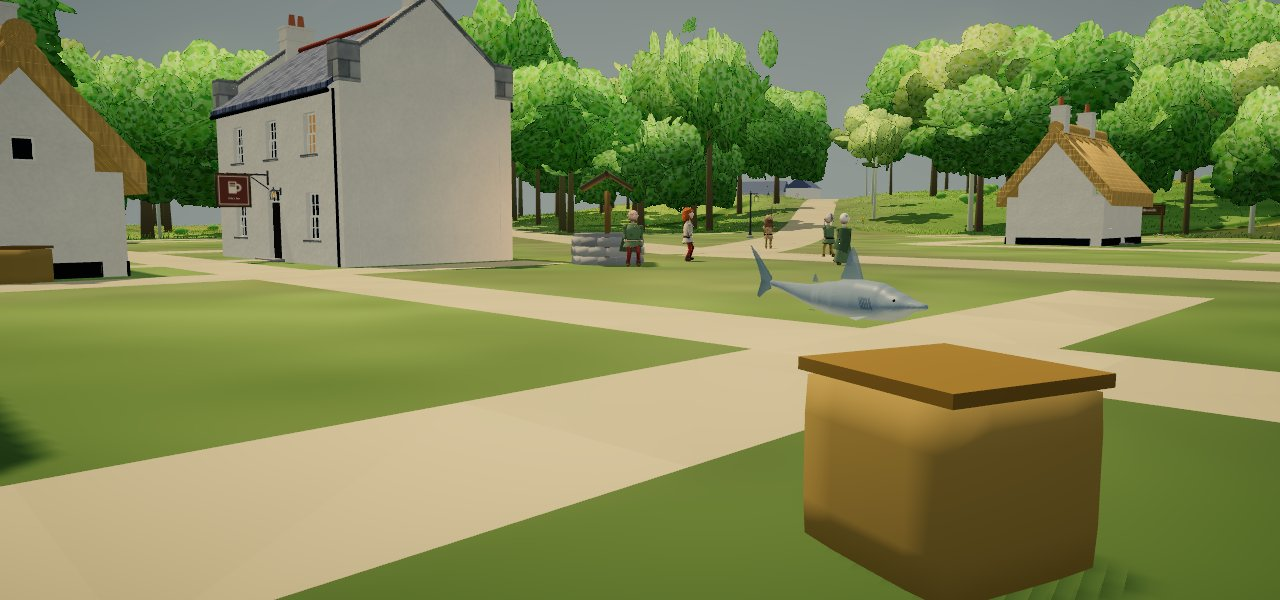
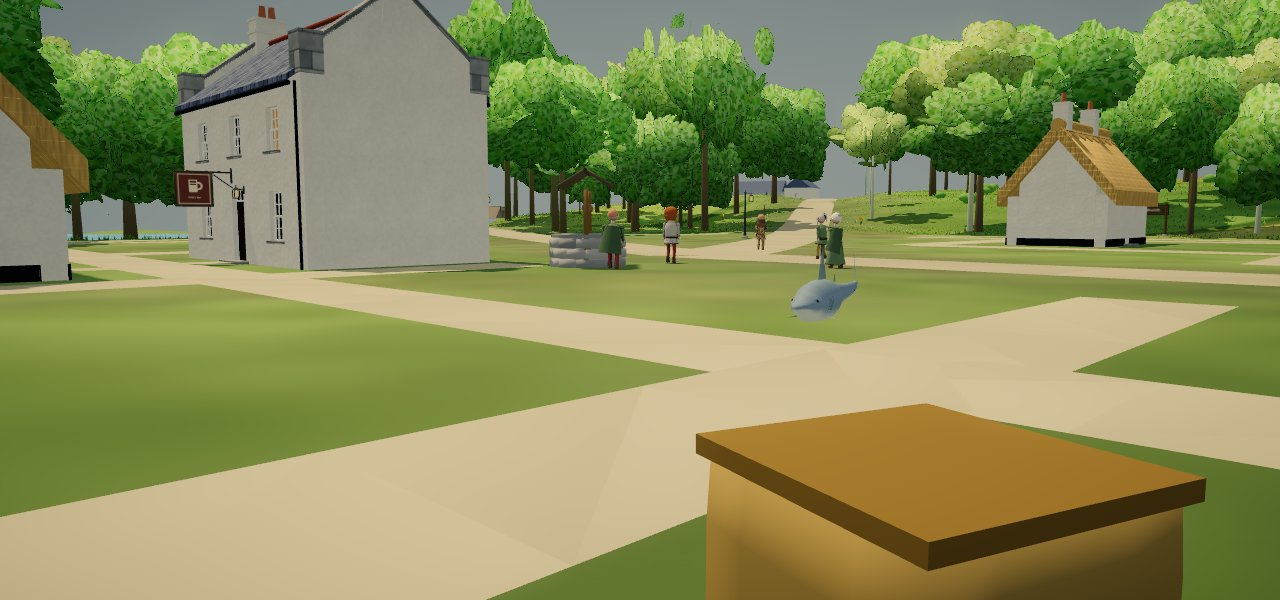
Session 1527: the shark's gill slits drawn as lines on the grown skin, not painted bands that aliased into a chequer
Claude-Session: https://claude.ai/code/session_019eFMMnz2PK79tcmWazPiGt

diff --git a/vendor/creatures.builder.js b/vendor/creatures.builder.js
@@ -2137,6 +2137,30 @@ P.frame = (B, o) => { const M = stdMat(B.tone(o.tone || 'stone'), { rough: .95, 
   let n = 0; for (const [bone, list] of Object.entries(gs)) { const m = new THREE.Mesh(mergeGeometries(list), M); m.name = 'frame'; B.bit(bone, m); n += list.length; }
   B.frame = { pieces: n, spurs: (o.spurs || []).length * 2 }; };
 // a step at a time (Session 1484): a yield every 800 vertices
+// gill slits as lines (Session 1527): painted into the hide, five slits a centimetre or two apart aliased into a chequer on a grid of
+// about the same pitch, so each slit is a thin ribbon laid on the grown skin instead. The skin is found by rays cast in from the side
+// at `Q.rows` heights along the slit's line (the same line the painted bands followed: `from`, `step`, leaning back by `tilt`), the
+// ribbon `Q.slit` wide along the body and lifted a hair off the skin; all of them one mesh in the `tone`, on the bone the gills lie over
+function gillSlits(geo, B, Q, pal) {
+  const H = B.headFrame, p = geo.attributes.position, idx = geo.index, nT = (idx ? idx.count : p.count) / 3, vi = i => idx ? idx.getX(i) : i;
+  const zs = []; for (let k = 0; k < Q.n; k++) zs.push(H.base.z + H.dir.z * (Q.from - k * Q.step * (1 - .06 * k)) * H.len);
+  const z0 = Math.min(...zs) - H.r, z1 = Math.max(...zs) + H.r, tris = [[], []], a = V(), b = V(), c = V();
+  for (let t = 0; t < nT; t++) { a.fromBufferAttribute(p, vi(t * 3)); b.fromBufferAttribute(p, vi(t * 3 + 1)); c.fromBufferAttribute(p, vi(t * 3 + 2));
+    if (Math.max(a.z, b.z, c.z) < z0 || Math.min(a.z, b.z, c.z) > z1) continue; const x = a.x + b.x + c.x; if (x > 0) tris[0].push([a.clone(), b.clone(), c.clone()]); else if (x < 0) tris[1].push([a.clone(), b.clone(), c.clone()]); }
+  const ray = new THREE.Ray(), hit = V(), pos = [], ix = [], rows = Q.rows || 6, lift = Q.lift ?? .0015;
+  for (const sd of [1, -1]) for (let k = 0; k < Q.n; k++) { const line = [];
+    for (let j = 0; j < rows; j++) { const up = lerp(Q.up[0] * .85, Q.up[1] * .85, j / (rows - 1)), al = Q.from - k * Q.step * (1 - .06 * k) - up * (Q.tilt || 0);
+      const at = H.base.clone().addScaledVector(H.dir, al * H.len).addScaledVector(H.up, up * H.r); ray.set(V(sd * H.r * 4, at.y, at.z), V(-sd, 0, 0));
+      let best = null, bd = 1e9; for (const [ta, tb, tc] of tris[sd > 0 ? 0 : 1]) if (ray.intersectTriangle(ta, tb, tc, false, hit)) { const d = hit.distanceTo(ray.origin); if (d < bd) { bd = d; best = { p: hit.clone(), n: V().subVectors(tb, ta).cross(V().subVectors(tc, ta)).normalize() }; } }
+      if (best) { if (best.n.x * sd < 0) best.n.negate(); line.push(best); } }
+    if (line.length < 2) continue;
+    const v0 = pos.length / 3, half = Q.slit / 2;
+    line.forEach(({ p: q, n }, j) => { const fade = j === 0 || j === line.length - 1 ? .35 : 1, o = q.clone().addScaledVector(n, lift);
+      pos.push(o.x, o.y, o.z - half * fade, o.x, o.y, o.z + half * fade); if (j) { const i = v0 + j * 2; ix.push(i - 2, i - 1, i, i - 1, i + 1, i); } }); }
+  if (!pos.length) return;
+  const g = new THREE.BufferGeometry(); g.setAttribute('position', new THREE.Float32BufferAttribute(pos, 3)); g.setIndex(ix); g.computeVertexNormals();
+  const m = new THREE.Mesh(g, stdMat(pal[Q.tone] || pal.dark, { rough: .8 }).clone()); m.material.side = THREE.DoubleSide; /* a copy: stdMat's are shared */ m.name = 'gills'; m.userData.noShadow = true;
+  B.bit(B.spineNames[B.spineNames.length - 1], m); }
 function* dressFlesh(geo, B, pal, plan) {
   const pos = geo.attributes.position, nrm = geo.attributes.normal, n = pos.count;
   const si = new Uint16Array(n * 4), sw = new Float32Array(n * 4), col = new Float32Array(n * 3), fur = new Float32Array(n), glow = new Float32Array(n), alpha = plan.faceClear ? new Float32Array(n).fill(1) : null;
@@ -2165,7 +2189,7 @@ function* dressFlesh(geo, B, pal, plan) {
       if (along > (F.back ?? -.3) && upw > -.35) C.copy(pal[side > F.from && side < F.to ? F.stripe : F.ground]).multiplyScalar(.95 + .1 * PN.noise(x * 40, y * 40, z * 40)); }
     // gill slits (Session 1525, the shark's): `n` dark bands across the flank behind the head, `step` apart along the head's line
     // from `from` (in the head's lengths; behind its root is negative), each `w` wide, between two distances out and two heights, leaning back by `tilt` as it rises
-    if (plan.gills && B.headFrame) { const Q = plan.gills, H = B.headFrame, rel = V(x, y, z).sub(H.base), al = rel.dot(H.dir) / H.len, sd = Math.abs(rel.x) / H.r, up = rel.dot(H.up) / H.r;
+    if (plan.gills && !plan.gills.slit && B.headFrame) { const Q = plan.gills, H = B.headFrame, rel = V(x, y, z).sub(H.base), al = rel.dot(H.dir) / H.len, sd = Math.abs(rel.x) / H.r, up = rel.dot(H.up) / H.r;
       if (sd > Q.side[0] && sd < Q.side[1] && up > Q.up[0] && up < Q.up[1]) for (let k = 0; k < Q.n; k++) { const c = Q.from - k * Q.step * (1 - .06 * k), d = Math.abs(al - c + up * (Q.tilt || 0)) * H.len; if (d < Q.w) { C.lerp(pal[Q.tone], sstep(Q.w, Q.w * .35, d) * sstep(Q.side[0], Q.side[0] + .2, sd) * sstep(Q.up[1], Q.up[1] - .25, up) * sstep(Q.up[0], Q.up[0] + .25, up) * (Q.k ?? .9)); break; } } }
     const mott = 1 + (PN.noise(x * 4.1, y * 4.1, z * 4.1) * .16 + PN.noise(x * 17, y * 17, z * 17) * .06) * (plan.mottle ?? 1); C.multiplyScalar(mott);
     col[v * 3] = C.r; col[v * 3 + 1] = C.g; col[v * 3 + 2] = C.b; fur[v] = furry;
@@ -2253,6 +2277,7 @@ function* buildSteps(g) {
   pause(); yield; go();
   { const it = dressFlesh(geo, B, pal, plan); while (!it.next().done) { pause(); yield; go(); } }
   for (const f of B.after || []) f(geo); // what is laid on the grown skin (a harness, Session 944)
+  if (plan.gills?.slit && B.headFrame) gillSlits(geo, B, plan.gills, pal);
   // the skeleton
   const root = new THREE.Group(), bones = B.bones.map(b => { const o = new THREE.Bone(); o.name = b.name; o.position.copy(b.parent ? b.p.clone().sub(b.parent.p) : b.p); return o; });
   B.bones.forEach((b, i) => { if (b.parent) bones[b.parent.i].add(bones[i]); }); const rig = new THREE.Group(); rig.add(bones[0]); root.add(rig); rig.updateMatrixWorld(true);
@@ -3215,7 +3240,7 @@ Object.assign(PLANS, {
   reefshark: { name: 'Reef Shark', src: 'OG-016 (open ocean: a reef shark); the game’s shark, Michael’s A on Session 230', gaits: ['swim', 'stand'], scale: 2.6, bl: .9, waveAmp: .16,
     water: 1.2, rough: .4, mottle: .25, wag: 0, pant: 0,
     palette: { coat: [.4, .45, .49], saddle: [.3, .35, .39], belly: [.88, .88, .86], dark: [.03, .03, .035], fin: [.33, .38, .42], gill: [.17, .2, .23] },
-    gills: { n: 5, from: -.04, step: .085, w: .008, side: [.5, 1.15], up: [-.45, .5], tilt: .12, k: .6, tone: 'gill' },
+    gills: { n: 5, from: -.04, step: .085, w: .008, side: [.5, 1.15], up: [-.45, .5], tilt: .12, k: .6, tone: 'gill', slit: .0035 },
     parts: [
       ['spine', { hip: [.8, -.13], chest: [.8, .17], n: 4, r: [.07, .1, .09], s: [.86, 1], rump: .03, front: .04 }],
       ['head', { len: .21, r: .076, pitch: 0, s: [.88, .78, 1], muzzle: { len: .95, r: .068, s: [.95, .62, 1], taper: .42, drop: -.02 }, jaw: { len: .55, r: .03, drop: .35 },

diff --git a/docs/prototypes/levelup/creatures.js b/docs/prototypes/levelup/creatures.js
@@ -707,6 +707,30 @@ P.frame = (B, o) => { const M = stdMat(B.tone(o.tone || 'stone'), { rough: .95, 
   let n = 0; for (const [bone, list] of Object.entries(gs)) { const m = new THREE.Mesh(mergeGeometries(list), M); m.name = 'frame'; B.bit(bone, m); n += list.length; }
   B.frame = { pieces: n, spurs: (o.spurs || []).length * 2 }; };
 // a step at a time (Session 1484): a yield every 800 vertices
+// gill slits as lines (Session 1527): painted into the hide, five slits a centimetre or two apart aliased into a chequer on a grid of
+// about the same pitch, so each slit is a thin ribbon laid on the grown skin instead. The skin is found by rays cast in from the side
+// at `Q.rows` heights along the slit's line (the same line the painted bands followed: `from`, `step`, leaning back by `tilt`), the
+// ribbon `Q.slit` wide along the body and lifted a hair off the skin; all of them one mesh in the `tone`, on the bone the gills lie over
+function gillSlits(geo, B, Q, pal) {
+  const H = B.headFrame, p = geo.attributes.position, idx = geo.index, nT = (idx ? idx.count : p.count) / 3, vi = i => idx ? idx.getX(i) : i;
+  const zs = []; for (let k = 0; k < Q.n; k++) zs.push(H.base.z + H.dir.z * (Q.from - k * Q.step * (1 - .06 * k)) * H.len);
+  const z0 = Math.min(...zs) - H.r, z1 = Math.max(...zs) + H.r, tris = [[], []], a = V(), b = V(), c = V();
+  for (let t = 0; t < nT; t++) { a.fromBufferAttribute(p, vi(t * 3)); b.fromBufferAttribute(p, vi(t * 3 + 1)); c.fromBufferAttribute(p, vi(t * 3 + 2));
+    if (Math.max(a.z, b.z, c.z) < z0 || Math.min(a.z, b.z, c.z) > z1) continue; const x = a.x + b.x + c.x; if (x > 0) tris[0].push([a.clone(), b.clone(), c.clone()]); else if (x < 0) tris[1].push([a.clone(), b.clone(), c.clone()]); }
+  const ray = new THREE.Ray(), hit = V(), pos = [], ix = [], rows = Q.rows || 6, lift = Q.lift ?? .0015;
+  for (const sd of [1, -1]) for (let k = 0; k < Q.n; k++) { const line = [];
+    for (let j = 0; j < rows; j++) { const up = lerp(Q.up[0] * .85, Q.up[1] * .85, j / (rows - 1)), al = Q.from - k * Q.step * (1 - .06 * k) - up * (Q.tilt || 0);
+      const at = H.base.clone().addScaledVector(H.dir, al * H.len).addScaledVector(H.up, up * H.r); ray.set(V(sd * H.r * 4, at.y, at.z), V(-sd, 0, 0));
+      let best = null, bd = 1e9; for (const [ta, tb, tc] of tris[sd > 0 ? 0 : 1]) if (ray.intersectTriangle(ta, tb, tc, false, hit)) { const d = hit.distanceTo(ray.origin); if (d < bd) { bd = d; best = { p: hit.clone(), n: V().subVectors(tb, ta).cross(V().subVectors(tc, ta)).normalize() }; } }
+      if (best) { if (best.n.x * sd < 0) best.n.negate(); line.push(best); } }
+    if (line.length < 2) continue;
+    const v0 = pos.length / 3, half = Q.slit / 2;
+    line.forEach(({ p: q, n }, j) => { const fade = j === 0 || j === line.length - 1 ? .35 : 1, o = q.clone().addScaledVector(n, lift);
+      pos.push(o.x, o.y, o.z - half * fade, o.x, o.y, o.z + half * fade); if (j) { const i = v0 + j * 2; ix.push(i - 2, i - 1, i, i - 1, i + 1, i); } }); }
+  if (!pos.length) return;
+  const g = new THREE.BufferGeometry(); g.setAttribute('position', new THREE.Float32BufferAttribute(pos, 3)); g.setIndex(ix); g.computeVertexNormals();
+  const m = new THREE.Mesh(g, stdMat(pal[Q.tone] || pal.dark, { rough: .8 }).clone()); m.material.side = THREE.DoubleSide; /* a copy: stdMat's are shared */ m.name = 'gills'; m.userData.noShadow = true;
+  B.bit(B.spineNames[B.spineNames.length - 1], m); }
 function* dressFlesh(geo, B, pal, plan) {
   const pos = geo.attributes.position, nrm = geo.attributes.normal, n = pos.count;
   const si = new Uint16Array(n * 4), sw = new Float32Array(n * 4), col = new Float32Array(n * 3), fur = new Float32Array(n), glow = new Float32Array(n), alpha = plan.faceClear ? new Float32Array(n).fill(1) : null;
@@ -735,7 +759,7 @@ function* dressFlesh(geo, B, pal, plan) {
       if (along > (F.back ?? -.3) && upw > -.35) C.copy(pal[side > F.from && side < F.to ? F.stripe : F.ground]).multiplyScalar(.95 + .1 * PN.noise(x * 40, y * 40, z * 40)); }
     // gill slits (Session 1525, the shark's): `n` dark bands across the flank behind the head, `step` apart along the head's line
     // from `from` (in the head's lengths; behind its root is negative), each `w` wide, between two distances out and two heights, leaning back by `tilt` as it rises
-    if (plan.gills && B.headFrame) { const Q = plan.gills, H = B.headFrame, rel = V(x, y, z).sub(H.base), al = rel.dot(H.dir) / H.len, sd = Math.abs(rel.x) / H.r, up = rel.dot(H.up) / H.r;
+    if (plan.gills && !plan.gills.slit && B.headFrame) { const Q = plan.gills, H = B.headFrame, rel = V(x, y, z).sub(H.base), al = rel.dot(H.dir) / H.len, sd = Math.abs(rel.x) / H.r, up = rel.dot(H.up) / H.r;
       if (sd > Q.side[0] && sd < Q.side[1] && up > Q.up[0] && up < Q.up[1]) for (let k = 0; k < Q.n; k++) { const c = Q.from - k * Q.step * (1 - .06 * k), d = Math.abs(al - c + up * (Q.tilt || 0)) * H.len; if (d < Q.w) { C.lerp(pal[Q.tone], sstep(Q.w, Q.w * .35, d) * sstep(Q.side[0], Q.side[0] + .2, sd) * sstep(Q.up[1], Q.up[1] - .25, up) * sstep(Q.up[0], Q.up[0] + .25, up) * (Q.k ?? .9)); break; } } }
     const mott = 1 + (PN.noise(x * 4.1, y * 4.1, z * 4.1) * .16 + PN.noise(x * 17, y * 17, z * 17) * .06) * (plan.mottle ?? 1); C.multiplyScalar(mott);
     col[v * 3] = C.r; col[v * 3 + 1] = C.g; col[v * 3 + 2] = C.b; fur[v] = furry;
@@ -823,6 +847,7 @@ function* buildSteps(g) {
   pause(); yield; go();
   { const it = dressFlesh(geo, B, pal, plan); while (!it.next().done) { pause(); yield; go(); } }
   for (const f of B.after || []) f(geo); // what is laid on the grown skin (a harness, Session 944)
+  if (plan.gills?.slit && B.headFrame) gillSlits(geo, B, plan.gills, pal);
   // the skeleton
   const root = new THREE.Group(), bones = B.bones.map(b => { const o = new THREE.Bone(); o.name = b.name; o.position.copy(b.parent ? b.p.clone().sub(b.parent.p) : b.p); return o; });
   B.bones.forEach((b, i) => { if (b.parent) bones[b.parent.i].add(bones[i]); }); const rig = new THREE.Group(); rig.add(bones[0]); root.add(rig); rig.updateMatrixWorld(true);
@@ -1785,7 +1810,7 @@ Object.assign(PLANS, {
   reefshark: { name: 'Reef Shark', src: 'OG-016 (open ocean: a reef shark); the game’s shark, Michael’s A on Session 230', gaits: ['swim', 'stand'], scale: 2.6, bl: .9, waveAmp: .16,
     water: 1.2, rough: .4, mottle: .25, wag: 0, pant: 0,
     palette: { coat: [.4, .45, .49], saddle: [.3, .35, .39], belly: [.88, .88, .86], dark: [.03, .03, .035], fin: [.33, .38, .42], gill: [.17, .2, .23] },
-    gills: { n: 5, from: -.04, step: .085, w: .008, side: [.5, 1.15], up: [-.45, .5], tilt: .12, k: .6, tone: 'gill' },
+    gills: { n: 5, from: -.04, step: .085, w: .008, side: [.5, 1.15], up: [-.45, .5], tilt: .12, k: .6, tone: 'gill', slit: .0035 },
     parts: [
       ['spine', { hip: [.8, -.13], chest: [.8, .17], n: 4, r: [.07, .1, .09], s: [.86, 1], rump: .03, front: .04 }],
       ['head', { len: .21, r: .076, pitch: 0, s: [.88, .78, 1], muzzle: { len: .95, r: .068, s: [.95, .62, 1], taper: .42, drop: -.02 }, jaw: { len: .55, r: .03, drop: .35 },

diff --git a/docs/backlog.md b/docs/backlog.md
@@ -537,7 +537,7 @@ Michael marked all 96 images of the intake on the review page: 63 KEEP and 33 NO
 - **The Mark's fifteen** (OG-031): Icehorn (horns that moan in the wind), Ironpine Elk, Stormlynx, Skyraven, Craghorn Ram, Glacial Marmot, Stormshrike, Snowleap Hare (coat by season), Riverjaw Salmon (leaps the falls), Tundra Grouse, Icecrab; Stonefang Wolf and Frostreach Bear as reskins of the Snow Wolf and Cave Bear. **All fifteen are plans in the kit, Session 847** (bodies builder; `creatures.js` `MARK`, `creatures-mark.jpg`); owed: the game, after F4.
 - **Aurenne's fifteen** (OG-030): Duneskimmer, Terrace Ram, Oasis Hare, Scarlet Ibis, Mirage Fox, Cliffswift, Amber Shellcrab (harvestable), Cypress Stalker, Glasswing Moth (an ingredient), Sunbeak Vulture, Spined Gekko; the Saltspine Monitor hostile; the Dunescorpion as the Sand Scorpion's skin; the Sand Wyrm as a set piece known by its funnels. **Fourteen are plans in the kit, Session 848** (bodies builder; `creatures.js` `AURENNE`, `creatures-aurenne.jpg`); owed: the game, after F4; ~~the Glasswing Moth~~ — done, Session 864 (a moth's glass wings in the kit), so all fifteen are plans.
 - **The strange beasts** (OG-040): the Crownstag, the Mossback (a tortoise carrying a garden), the Bellthroat (its call at dusk), the Lanternfox, the Thornrunner; the Shatterhorn, the Frostmane (a pack beast), the Glasswing, the Stonejaw, the Stormplume; the Redcrest, the Sunfan, the Mineprowler, the Sailshell. Wonder without menace, mostly peaceful. A few have six legs, and that is ordinary (Michael's 9 A). **All fourteen are plans in the kit, Session 853** (bodies builder; `creatures.js` `STRANGE`, `creatures-strange.jpg`): six from Sessions 773 to 775 and eight new (the Crownstag, the Lanternfox, the Thornrunner, the Frostmane, the Glasswing, the Stonejaw, the Redcrest, the Sunfan); owed: the game, after F4.
-- **The sea** (OG-016, OG-084, OG-031): tidecrab, moray, rays, lantern jelly, flying fish, squid, seals, dolphins, octopus, turtles; the Shatterback and the maw turtle as landmarks mistaken for rock; the gate eel and the Gate Leviathan as a sea gate's antibodies (the Mouth, the Vault of the Tide), seams glowing. **Seventeen are plans in the kit, Session 854** (bodies builder; `creatures.js` `SEA`, `creatures-sea.jpg`): the reef moray, the starweed and sailfin rays, the lantern jelly, the coastal tuna, the skyskimmer, the Stormswift (a dolphin), the drifter squid, the reef shark (~~a shark of its own, not the salmon recoloured~~ — done, Session 1525: the game's shark, Michael's A on S230, as the brief; `creatures-reefshark*.jpg`; ~~owed: the game's Shark wearing it~~ — done, Session 1526: on the new look, posed by the kit's swim gait at the old tail's beat, `hcFishRig`; `f4sharks`), the grey seal, the blackcurrent eel, the gate eel and the Gate Leviathan, beside the Tidecrab, the Storm Whale, the octopus and the Shatterback; owed: the game, after F4; ~~the kelpstrider~~ — done, Session 863 (leafy fronds in the kit); ~~the pierwinkle~~ — done, Session 862 (a coiled shell in the kit); ~~the stonefish, the abyssal angler and the crimson leviathan~~ — done, Session 856; ~~turtles (a sea turtle and the maw turtle need flippers)~~ — done, Session 861 (flippers in the kit: flattened arms that stroke).
+- **The sea** (OG-016, OG-084, OG-031): tidecrab, moray, rays, lantern jelly, flying fish, squid, seals, dolphins, octopus, turtles; the Shatterback and the maw turtle as landmarks mistaken for rock; the gate eel and the Gate Leviathan as a sea gate's antibodies (the Mouth, the Vault of the Tide), seams glowing. **Seventeen are plans in the kit, Session 854** (bodies builder; `creatures.js` `SEA`, `creatures-sea.jpg`): the reef moray, the starweed and sailfin rays, the lantern jelly, the coastal tuna, the skyskimmer, the Stormswift (a dolphin), the drifter squid, the reef shark (~~a shark of its own, not the salmon recoloured~~ — done, Session 1525: the game's shark, Michael's A on S230, as the brief; `creatures-reefshark*.jpg`; ~~the gill bands' chequer~~ — done, Session 1527 (slits as ribbons on the grown skin, `gillSlits`); ~~owed: the game's Shark wearing it~~ — done, Session 1526: on the new look, posed by the kit's swim gait at the old tail's beat, `hcFishRig`; `f4sharks`), the grey seal, the blackcurrent eel, the gate eel and the Gate Leviathan, beside the Tidecrab, the Storm Whale, the octopus and the Shatterback; owed: the game, after F4; ~~the kelpstrider~~ — done, Session 863 (leafy fronds in the kit); ~~the pierwinkle~~ — done, Session 862 (a coiled shell in the kit); ~~the stonefish, the abyssal angler and the crimson leviathan~~ — done, Session 856; ~~turtles (a sea turtle and the maw turtle need flippers)~~ — done, Session 861 (flippers in the kit: flattened arms that stroke).
 - **Livestock** (OG-023, OG-035): chickens, goats, sheep, cows and bees on farms and in fields. **Prototyped as plans in the kit, Session 844** (bodies builder; `creatures.js` `LIVESTOCK`, `creatures-livestock.jpg`): the cow, the sheep, the goat and the hen build and walk; owed: the bees (not skeletal), and the game (after F4); ~~breeds by island~~ — done, Session 866 (`COATS`); ~~a cow's patches~~ — done, Session 845 (a patches pattern in the kit).
 - **Beasts of burden and wagons** (OG-046, OG-077): horse, mule, donkey, ox, camel, reindeer, yak; covered and merchant wagons, the stagecoach, supply carts on the roads. OG-077's post-rider on a horse-sized hare is the brief's licence made ordinary: one on the Gatelands' roads. **The animals are plans in the kit, Session 855** (bodies builder; `creatures.js` `BURDEN`, `creatures-burden.jpg`): the horse, the mule, the donkey, the ox, the camel, the reindeer, the highland yak and a saddled giant goat, beside the post hare (Session 773); OG-046's llama is the Frostmane and its cow the livestock's. Owed: the wagons and carts (props: the look builder's), and the game, after F4; ~~harness and packs~~ — done, Session 867 (`packs` and `harness` in the kit: the pack mule, the draught horse, the yoked ox). **The horse heavier, Session 1261** (bodies builder; S1251 found the kit's horse a thin-legged foal at the coach's size): a deeper barrel, a deep flat neck with a mane (the kit's new `mane`, a crest in its own tone), a broader head, legs a third thicker, a full tail; the draught horse's collar fitted to the grown skin. ~~the coach's team on it (a key per horse from `buildCoachLine`)~~ — done, Session 1273 (the bay and the grey on the kit's horse behind the new look, keyed `coach:<road>:<i>`, each leg bent onto the driver's hoof height, `hcLegIK`; `f4beasts`).
 

diff --git a/docs/devlog/1527.md b/docs/devlog/1527.md
@@ -1,0 +1,35 @@
+## v80 — Session 1527 — the shark's gill slits drawn as lines
+Session 1525 left a note under "Needs eyes": at the line-up's distance the reef shark's painted gill bands aliased into a small
+chequer. Session 1526's close picture in the game showed the same thing close to. So the shark that had just gone into the game
+wore a smudge where its gills should be.
+
+**Why painting could not do it.** The bands were coloured into the hide's vertices. Five slits sit 0.085 head lengths apart, which is
+about 1.8 cm on the kit's body at size 1, and each band was 1.6 cm wide. The hide's grid is cut at about the same pitch. So the bands
+nearly touched, and the few vertices between them fell on or off a band by chance. That is the chequer
+(`creatures-reefshark-gills-before.jpg`). A narrower band would only alias at a finer grain, and spacing them so the grid could show
+them would spread five slits over more than a head's length.
+
+**What changed** (`docs/prototypes/levelup/creatures.js`; `vendor/creatures.builder.js` rebuilt from it):
+- `gillSlits`: a plan whose `gills` names `slit` (a width) gets its slits as geometry. Each slit is a thin ribbon laid on the grown
+  skin. Rays are cast in from each side at six heights along the line the painted band followed (the same `from`, `step` and lean
+  back by `tilt`), and the hits are taken from the triangles in the gills' stretch only. The ribbon is `slit` wide along the body
+  (0.0035, about 8 mm on the kit's shark and 11 mm on the game's), narrowed at its two ends, and lifted 1.5 mm off the skin along the
+  skin's normal. All ten slits are one mesh with 100 triangles and one draw call, in the plan's `gill` tone, double-sided. It hangs
+  on the chest bone (the spine's last), which the slits lie over.
+- With `slit` set, the painted bands are not drawn.
+- `reefshark` sets `slit: .0035`. No other plan uses gills.
+In the game the slits are a bit on the shark's body, shown near and at the middle level; only the eyes are dropped at 25 m.
+
+### Verified (headless Chromium)
+- `creatures.check.mjs --plans=reefshark,riverjaw,stormwhale --shots` all pass. The reef shark is 19 bones, its skin weights sum to
+  one, and both gaits pass. Riverjaw and storm whale are unchanged (their pictures were the same, so they are not committed again).
+- `creatures_bundle.py --check` matches, and `parsecheck` is OK.
+- `f4sharks` (Session 1526's) passes 9/9 on the rebuilt bundle: the shark is 5 meshes near (the gills one of them), 3 at 25 m.
+- Pictures: `creatures-reefshark-gills-before.jpg` and `creatures-reefshark-gills.jpg` (close, from the side), and
+  `creatures-reefshark.jpg` (the whole body).
+
+### Needs eyes
+- The slits are crisp black lines, darker than a real shark's, which read as a shadowed fold. At play distance that reads as gills;
+  close to, a softer gill tone may suit better.
+- A ribbon is rigid on the chest bone while the skin under it is skinned to the head and spine. The swim gait bends least there, but
+  a hard turn could lift a slit's edge a millimetre off the skin.
